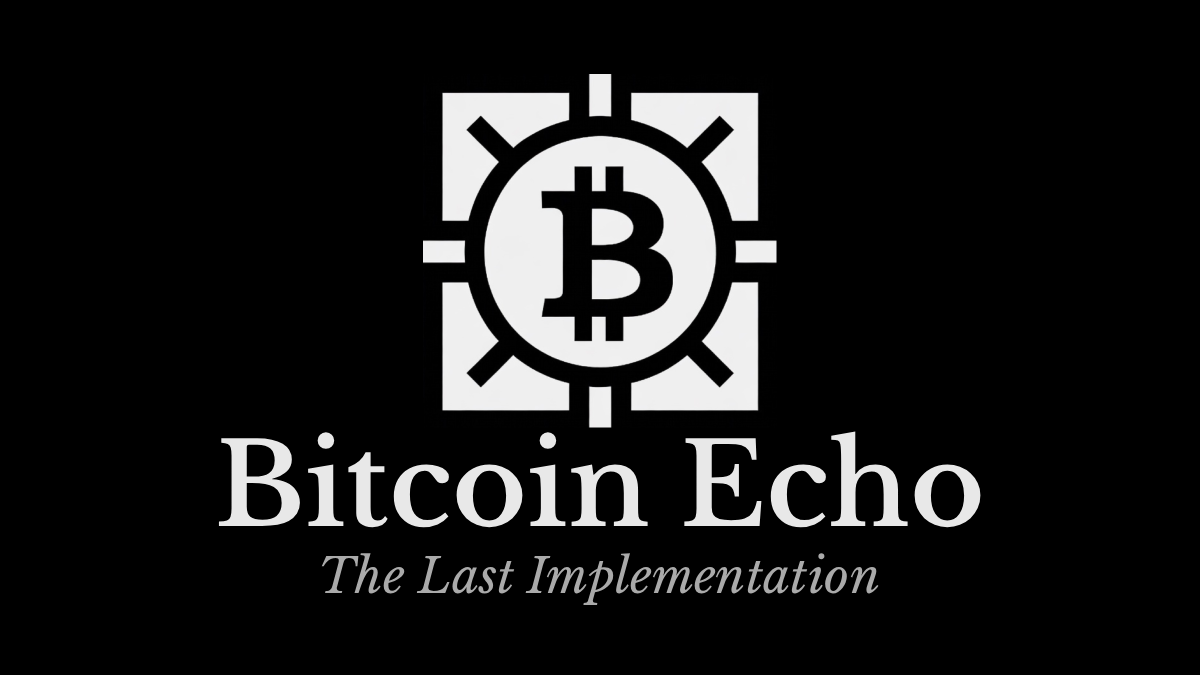
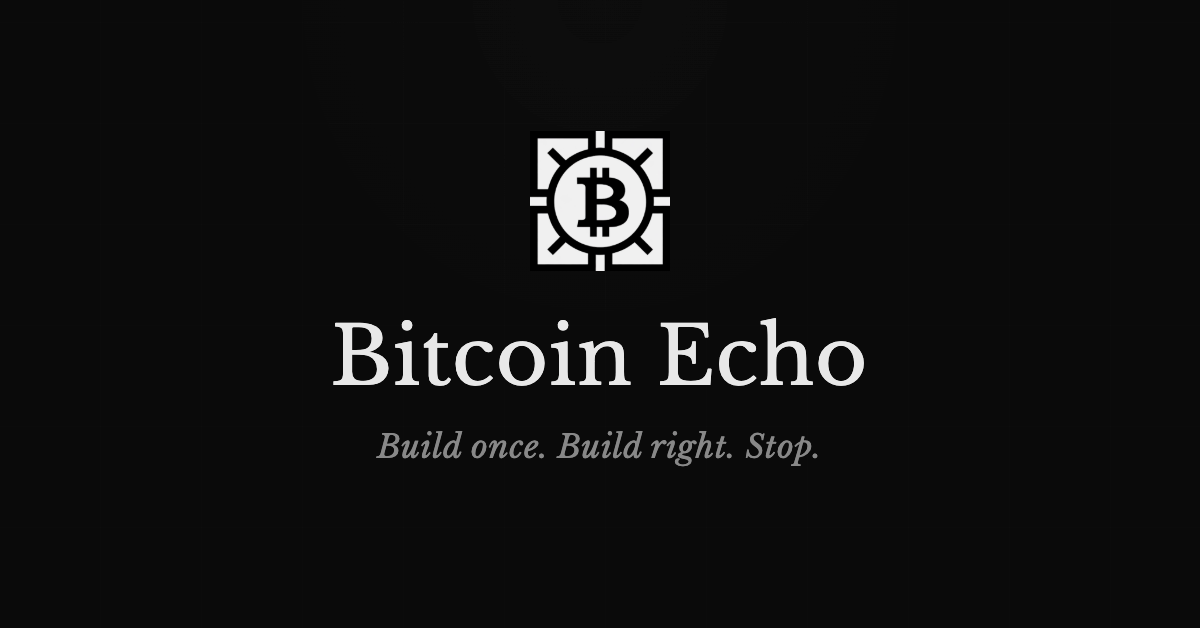
refactor: replace 'The Last Implementation' with 'Build once. Build right. Stop.' and add new OG image
- Update hero tagline in index.html
- Update all meta tags (og:title, twitter:title) across index.html and doc-template.php
- Correct OG image dimensions to 1200x628 (Twitter/X spec)
- Retitle manifesto to 'Why Bitcoin Echo Freezes'
- Update closing taglines in ROADMAP.md and GUI_ROADMAP.md
- Add new bitcoin-echo-og-image.png (1200x628px)

Changed region(s): [[0.185, 0.0908, 0.8325, 0.7866], [0.2775, 0.8169, 0.74, 0.8774]]

diff --git a/index.html b/index.html
@@ -13,7 +13,7 @@
     </script>
     <meta charset="UTF-8">
     <meta name="viewport" content="width=device-width, initial-scale=1.0">
-    <title>Bitcoin Echo — The Last Implementation</title>
+    <title>Bitcoin Echo — Build once. Build right. Stop.</title>
     <meta name="description"
         content="A faithful implementation of the Bitcoin protocol, built for permanence. Not for continued development, but for preservation.">
     <meta name="theme-color" content="#0a0a0a">
@@ -21,7 +21,7 @@
     <link rel="icon" type="image/png" href="favicon-16x16.png" sizes="16x16" />
 
     <!-- Open Graph -->
-    <meta property="og:title" content="Bitcoin Echo — The Last Implementation">
+    <meta property="og:title" content="Bitcoin Echo — Build once. Build right. Stop.">
     <meta property="og:description"
         content="A complete Bitcoin protocol implementation in pure C, designed to freeze forever upon completion. Zero dependencies. Built for permanence, not continued development. bitcoinecho.org">
     <meta property="og:type" content="website">
@@ -29,14 +29,14 @@
     <meta property="og:site_name" content="Bitcoin Echo">
     <meta property="og:locale" content="en_US">
     <meta property="og:image" content="https://bitcoinecho.org/bitcoin-echo-og-image.png">
-    <meta property="og:image:width" content="960">
-    <meta property="og:image:height" content="960">
+    <meta property="og:image:width" content="1200">
+    <meta property="og:image:height" content="628">
     <meta property="og:image:alt" content="Bitcoin Echo symbol — a stylized B within a circuit-like design">
     <meta property="og:image:type" content="image/jpeg">
 
     <!-- Twitter Card -->
     <meta name="twitter:card" content="summary_large_image">
-    <meta name="twitter:title" content="Bitcoin Echo — The Last Implementation">
+    <meta name="twitter:title" content="Bitcoin Echo — Build once. Build right. Stop.">
     <meta name="twitter:description"
         content="A complete Bitcoin protocol implementation in pure C, designed to freeze forever upon completion. Zero dependencies. Built for permanence, not continued development.">
     <meta name="twitter:image" content="https://bitcoinecho.org/bitcoin-echo-og-image.png">
@@ -1196,7 +1196,7 @@
         </div>
         <h1 class="hero-title">
             Bitcoin Echo
-            <span>The Last Implementation</span>
+            <span>Build once. Build right. Stop.</span>
         </h1>
         <p class="hero-description">
             A faithful implementation of the Bitcoin protocol, built not for continued development—but for permanence.

diff --git a/doc-template.php b/doc-template.php
@@ -13,13 +13,13 @@
     <meta charset="UTF-8">
     <meta name="viewport" content="width=device-width, initial-scale=1.0">
     <title><?= htmlspecialchars($title) ?> — Bitcoin Echo</title>
-    <meta name="description" content="<?= htmlspecialchars($title) ?> — Bitcoin Echo: The Last Implementation">
+    <meta name="description" content="<?= htmlspecialchars($title) ?> — Bitcoin Echo: Build once. Build right. Stop.">
     <meta name="theme-color" content="#0a0a0a">
     <link rel="icon" type="image/png" href="/favicon-32x32.png" sizes="32x32" />
     <link rel="icon" type="image/png" href="/favicon-16x16.png" sizes="16x16" />
 
     <!-- Open Graph -->
-    <meta property="og:title" content="Bitcoin Echo — The Last Implementation">
+    <meta property="og:title" content="Bitcoin Echo — Build once. Build right. Stop.">
     <meta property="og:description"
         content="A complete Bitcoin protocol implementation in pure C, designed to freeze forever upon completion. Zero dependencies. Built for permanence, not continued development. bitcoinecho.org">
     <meta property="og:type" content="website">
@@ -27,14 +27,14 @@
     <meta property="og:site_name" content="Bitcoin Echo">
     <meta property="og:locale" content="en_US">
     <meta property="og:image" content="https://bitcoinecho.org/bitcoin-echo-og-image.png">
-    <meta property="og:image:width" content="960">
-    <meta property="og:image:height" content="960">
+    <meta property="og:image:width" content="1200">
+    <meta property="og:image:height" content="628">
     <meta property="og:image:alt" content="Bitcoin Echo symbol — a stylized B within a circuit-like design">
     <meta property="og:image:type" content="image/jpeg">
 
     <!-- Twitter Card -->
     <meta name="twitter:card" content="summary_large_image">
-    <meta name="twitter:title" content="Bitcoin Echo — The Last Implementation">
+    <meta name="twitter:title" content="Bitcoin Echo — Build once. Build right. Stop.">
     <meta name="twitter:description"
         content="A complete Bitcoin protocol implementation in pure C, designed to freeze forever upon completion. Zero dependencies. Built for permanence, not continued development.">
     <meta name="twitter:image" content="https://bitcoinecho.org/bitcoin-echo-og-image.png">

diff --git a/GUI_ROADMAP.md b/GUI_ROADMAP.md
@@ -720,4 +720,4 @@ The bitcoin-echo RPC has no authentication. This is fine for localhost-only bind
 
 *This document guides GUI development. For core node implementation, see [ROADMAP.md](ROADMAP.md). For technical specification, see the [Whitepaper](bitcoin-echo-whitepaper.md).*
 
-**Bitcoin Echo: The Last Implementation. Now Visible.**
+*Build once. Build right. Stop. Now Visible.*

diff --git a/ROADMAP.md b/ROADMAP.md
@@ -1474,4 +1474,4 @@ A universal web application providing a visual interface to a running Bitcoin Ec
 
 *This document is the keystone reference for Bitcoin Echo implementation. When in doubt, consult the whitepaper. When the whitepaper is silent, choose simplicity.*
 
-**Bitcoin Echo: The Last Implementation**
+*Build once. Build right. Stop.*

diff --git a/bitcoin-echo-manifesto.md b/bitcoin-echo-manifesto.md
@@ -1,6 +1,6 @@
-# The Last Implementation
+# Why Bitcoin Echo Freezes
 
-**A Manifesto for Bitcoin Echo**
+**A Manifesto for Permanent Software**
 
 ---
 
